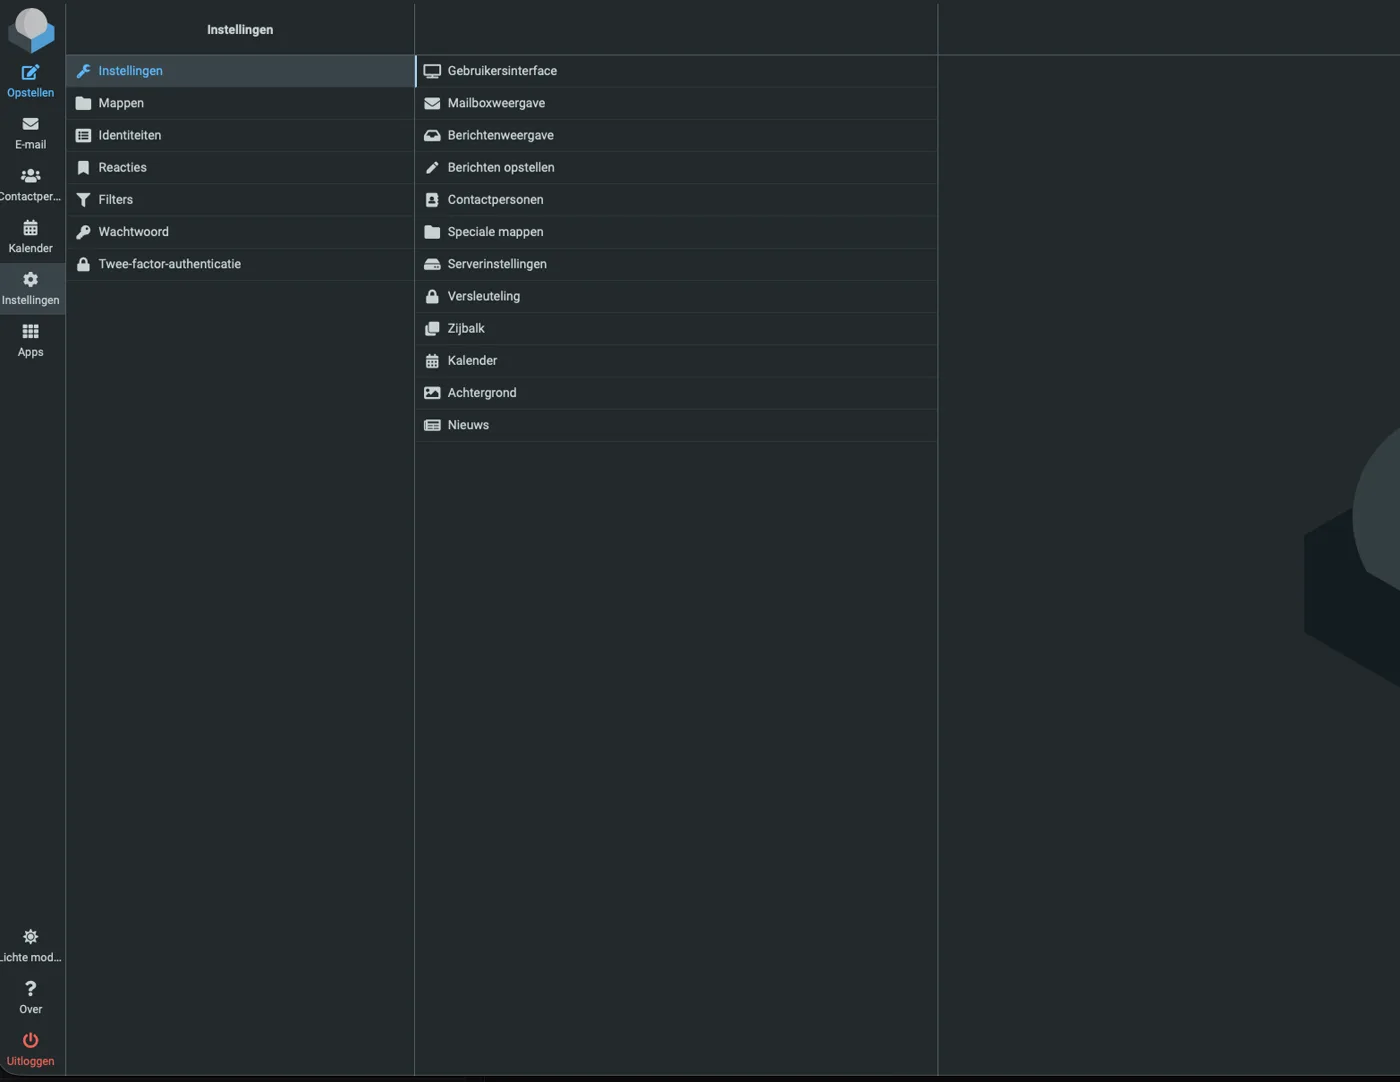
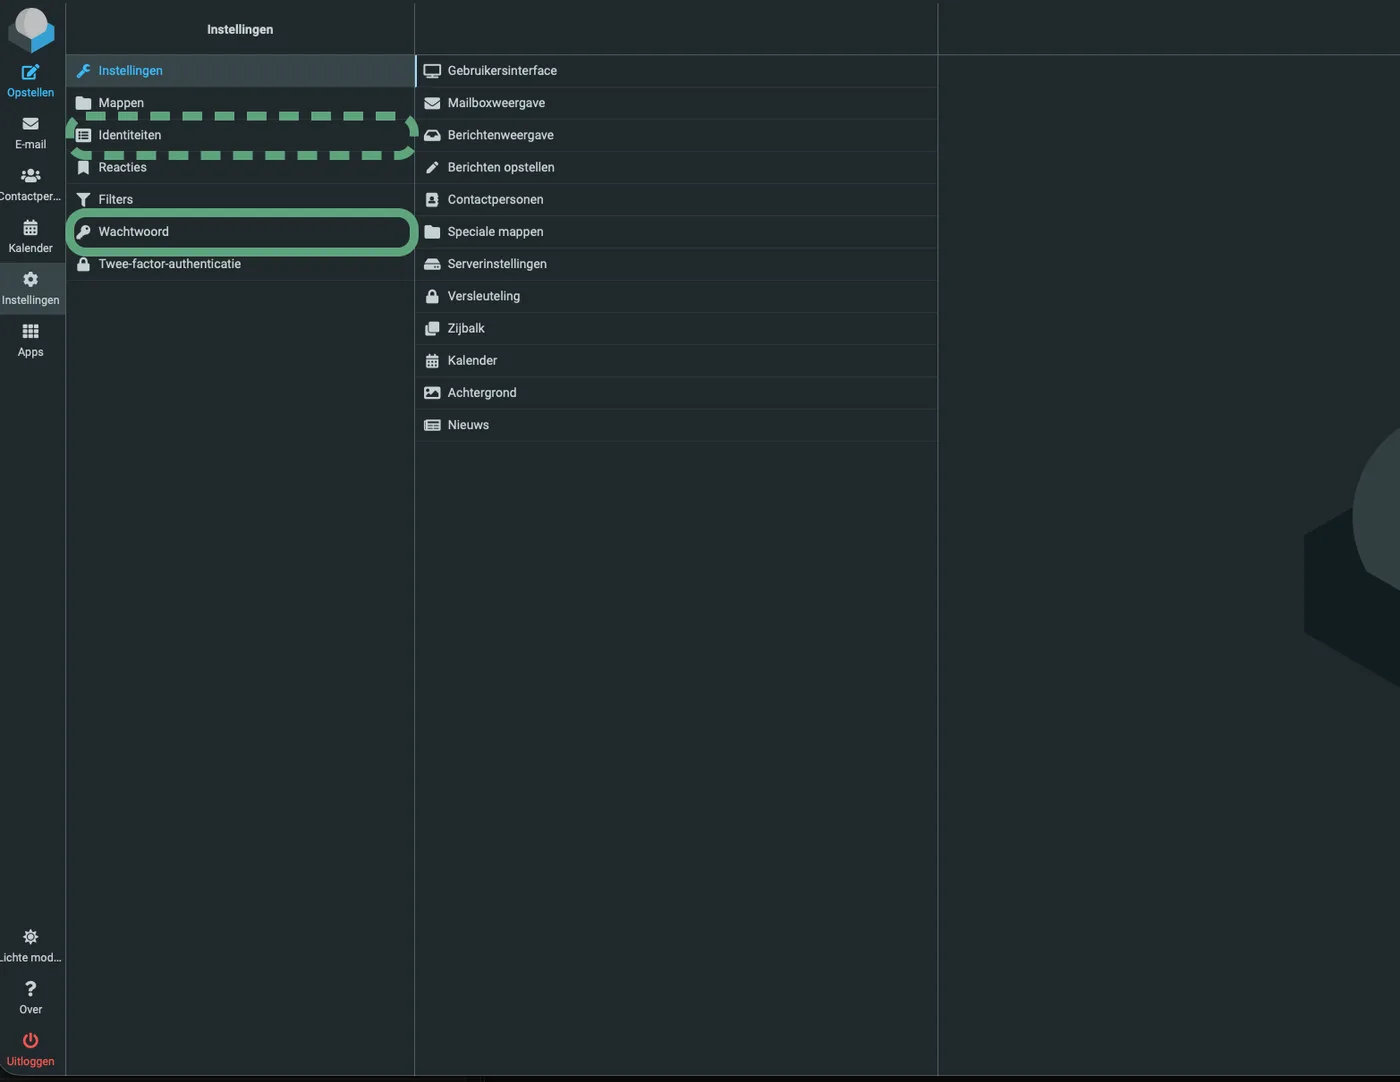
Support: kaders en pijlen op de webmail-screenshots

Changed region(s): [[0.0307, 0.183, 0.3071, 0.244], [0.0307, 0.0915, 0.3071, 0.1525], [0.0, 0.061, 0.0307, 0.0915]]

diff --git a/scripts/annotate-webmail.js b/scripts/annotate-webmail.js
@@ -1,0 +1,54 @@
+const sharp = require("sharp");
+// Gebruik: node scripts/annotate-webmail.js
+// Leest de originele webmail-screenshots uit ../screenshots/support-webmail/originals/ (buiten de repo),
+// zet kader + pijl in merkgroen (zelfde stijl als annotate-screenshots.js) en schrijft webp van 1400px breed
+// naar public/support/webmail/. Coördinaten in het origineel; `crop` snijdt vóór het verkleinen bij.
+const OUT = "public/support/webmail/";
+const SRC = "../screenshots/support-webmail/originals/";
+const C = "#5FA47E";
+// Desktop-screenshots (≈2200px) worden naar 760px getoond, dus dikkere lijnen dan bij de iPhone-plaatjes.
+const STROKE = 10, ARROW = 14, RX = 18;
+
+const jobs = [
+  // Inlogformulier: velden + knop. Bijgesneden tot het formulier, anders is het een leeg vlak.
+  { src: "01-inloggen", box: [930, 322, 360, 160], arrow: "below", crop: { left: 404, top: 80, width: 1400, height: 720 } },
+  // Mappenlijst (solide) + hoofdknoppen links (gestippeld).
+  { src: "02-overzicht", box: [70, 58, 395, 232], arrow: "below", extra: [[2, 60, 70, 352]] },
+  // Instellingen-menu: Wachtwoord (solide, zonder pijl: rechts staat tekst, onder staat de volgende regel), Identiteiten gestippeld.
+  { src: "03-instellingen", box: [78, 238, 385, 44], arrow: "none", extra: [[78, 130, 385, 44]] },
+  // Identiteiten: Ondertekening (solide), Weergavenaam en Opslaan gestippeld.
+  { src: "04-identiteiten", box: [1058, 446, 1150, 176], arrow: "left", extra: [[1436, 104, 772, 44], [1058, 702, 108, 46]] },
+  // Twee-factor: rij Mobiele app met knop Schakel in.
+  { src: "05-twee-factor", box: [1095, 200, 620, 82], arrow: "left" },
+];
+
+function rect([x, y, w, h], dash = false) {
+  return `<rect x="${x}" y="${y}" width="${w}" height="${h}" rx="${RX}" fill="none" stroke="${C}" stroke-width="${STROKE}"${dash ? ' stroke-dasharray="22 14"' : ""}/>`;
+}
+function arrow([x, y, w, h], dir) {
+  if (dir === "none") return "";
+  const head = 44, len = 150, gap = 26, s = `stroke="${C}" stroke-width="${ARROW}" stroke-linecap="round" stroke-linejoin="round" fill="none"`;
+  if (dir === "below") {
+    const cx = x + w / 2, y2 = y + h + gap, y1 = y2 + len;
+    return `<path d="M${cx} ${y1} L${cx} ${y2}" ${s}/><path d="M${cx - head} ${y2 + head * 1.3} L${cx} ${y2} L${cx + head} ${y2 + head * 1.3}" ${s}/>`;
+  }
+  if (dir === "right") {
+    const cy = y + h / 2, x2 = x + w + gap, x1 = x2 + len;
+    return `<path d="M${x1} ${cy} L${x2} ${cy}" ${s}/><path d="M${x2 + head * 1.3} ${cy - head} L${x2} ${cy} L${x2 + head * 1.3} ${cy + head}" ${s}/>`;
+  }
+  // left: pijl komt van links en wijst naar de linkerrand van het kader
+  const cy = y + h / 2, x2 = x - gap, x1 = x2 - len;
+  return `<path d="M${x1} ${cy} L${x2} ${cy}" ${s}/><path d="M${x2 - head * 1.3} ${cy - head} L${x2} ${cy} L${x2 - head * 1.3} ${cy + head}" ${s}/>`;
+}
+
+(async () => {
+  for (const j of jobs) {
+    const meta = await sharp(SRC + j.src + ".png").metadata();
+    const svg = `<svg xmlns="http://www.w3.org/2000/svg" width="${meta.width}" height="${meta.height}">
+      ${rect(j.box)}${arrow(j.box, j.arrow)}${(j.extra || []).map((b) => rect(b, true)).join("")}</svg>`;
+    let img = sharp(await sharp(SRC + j.src + ".png").composite([{ input: Buffer.from(svg), top: 0, left: 0 }]).png().toBuffer());
+    if (j.crop) img = img.extract(j.crop);
+    await img.resize({ width: 1400 }).webp({ quality: 82 }).toFile(OUT + j.src + ".webp");
+    console.log("ok", j.src);
+  }
+})();

diff --git a/public/support/webmail/README.md b/public/support/webmail/README.md
@@ -7,4 +7,5 @@ Bestandsnaam zonder extensie staat in components/support/Webmail.tsx; .webp heef
 04-identiteiten    Instellingen › Identiteiten: Weergavenaam, Ondertekening, Opslaan
 05-twee-factor     Instellingen › Twee-factor-authenticatie: Mobiele app, E-mail, Yubikey
 
-Vervangen: nieuwe screenshot verkleinen naar 1400px breed en als webp opslaan met dezelfde naam.
+Kaders en pijlen: scripts/annotate-webmail.js (originelen staan buiten de repo in ../screenshots/support-webmail/originals/).
+Vervangen: nieuwe originele screenshot in die map zetten, coördinaten in het script nalopen en het script draaien.
